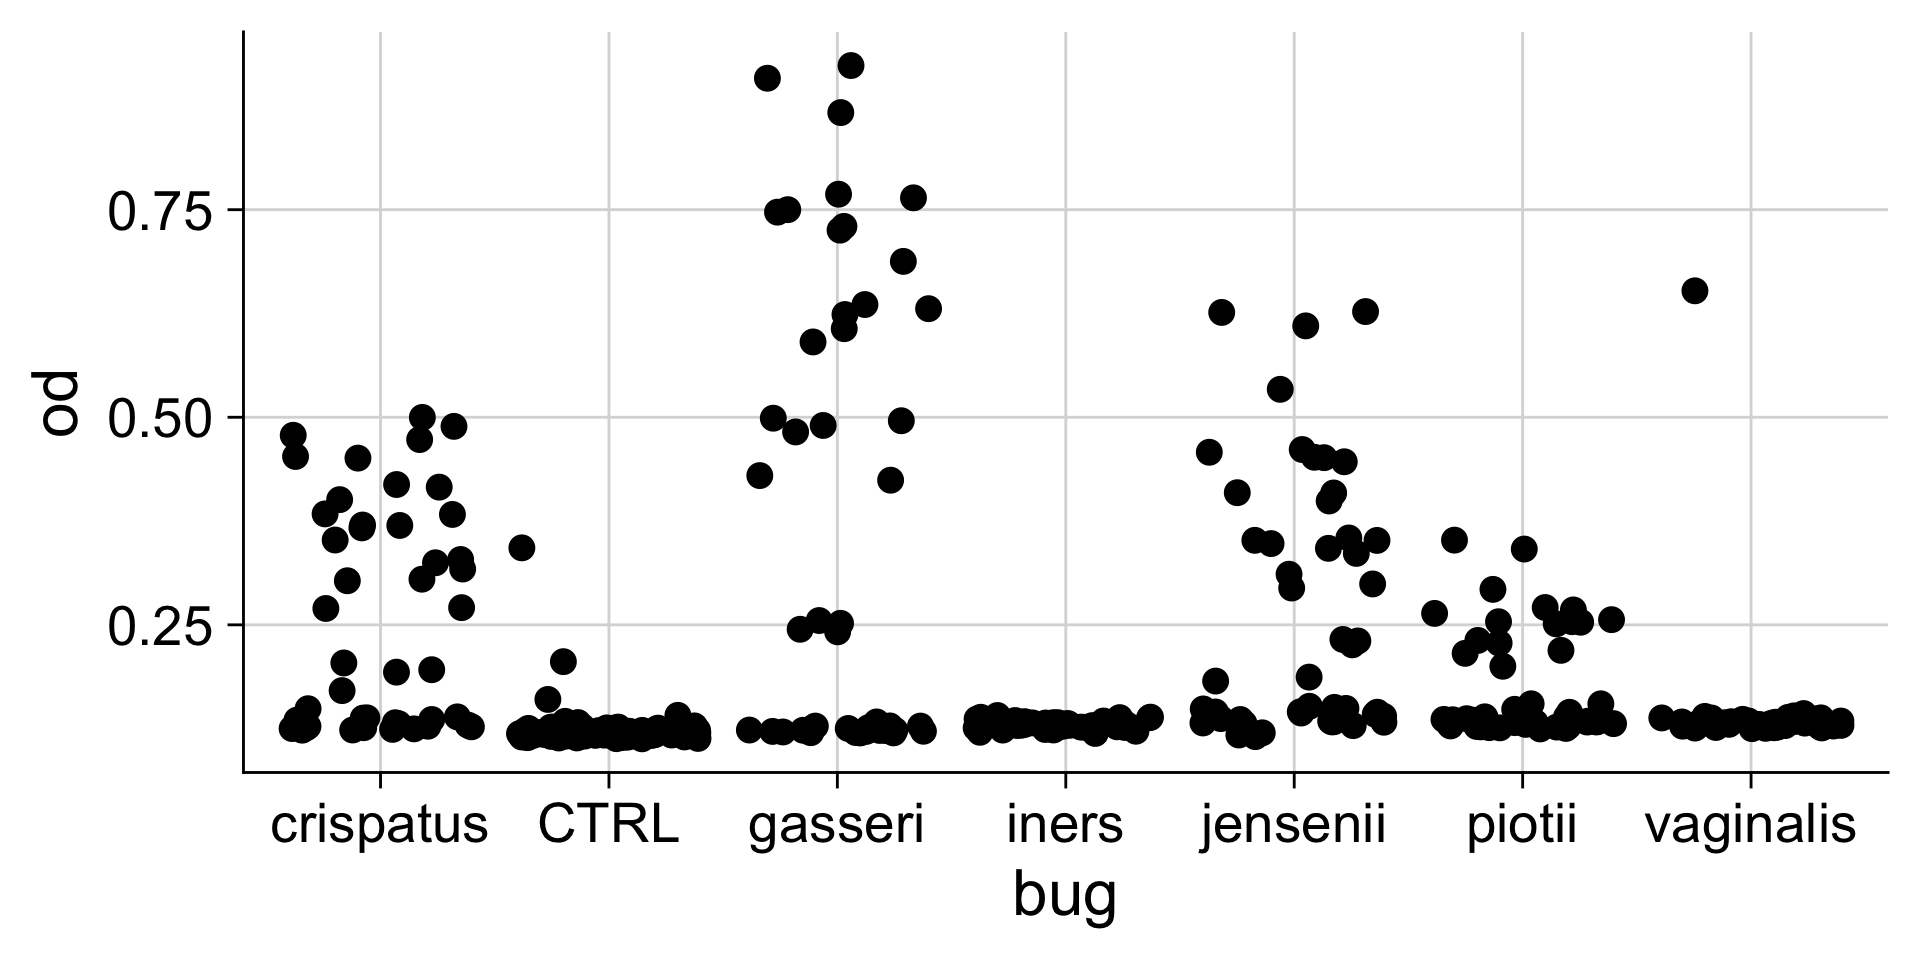
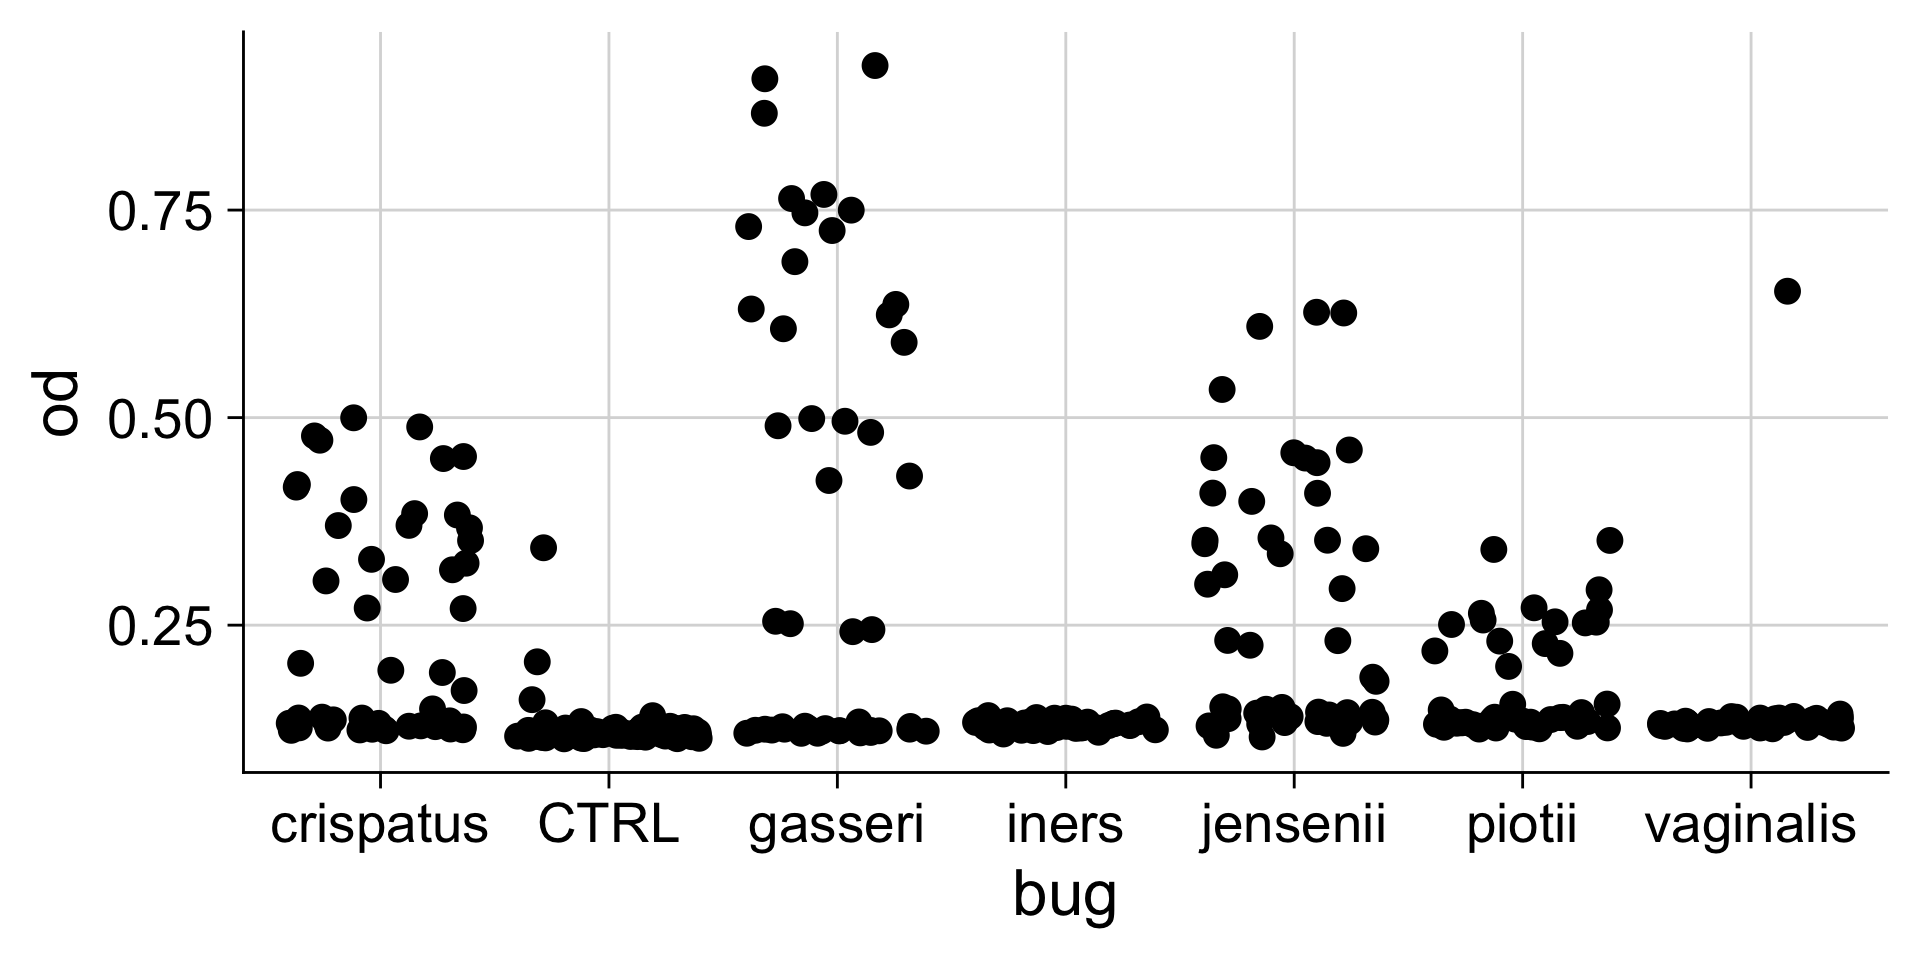
Built site for gh-pages

diff --git a/materials/archive/r-tutorial/slides.html b/materials/archive/r-tutorial/slides.html
@@ -656,7 +656,7 @@
 </ul>
 <div class="cell">
 <div class="cell-output-display">
-<div class="countdown" id="timer_e3cbdf46" data-update-every="1" data-play-sound="true" tabindex="0" style="bottom:0;left:0;">
+<div class="countdown" id="timer_8fb4dae4" data-update-every="1" data-play-sound="true" tabindex="0" style="bottom:0;left:0;">
 <div class="countdown-controls"><button class="countdown-bump-down">−</button><button class="countdown-bump-up">+</button></div>
 <code class="countdown-time"><span class="countdown-digits minutes">05</span><span class="countdown-digits colon">:</span><span class="countdown-digits seconds">00</span></code>
 </div>
@@ -1163,11 +1163,11 @@
 <pre><code># A tibble: 5 × 6
   plate_id row   column bug       condition  conc
      &lt;dbl&gt; &lt;chr&gt;  &lt;dbl&gt; &lt;chr&gt;     &lt;chr&gt;     &lt;dbl&gt;
-1        4 d          4 gasseri   LNA         400
-2        2 h          2 crispatus CTRL          0
-3        4 f          8 piotii    LNA         100
-4        2 f          2 crispatus LNA         100
-5        1 b          1 CTRL      OA          400</code></pre>
+1        2 g         12 CTRL      LNA          50
+2        1 b          5 jensenii  OA          400
+3        4 c          5 vaginalis VCA          50
+4        1 g         10 iners     VCA         200
+5        4 c         11 CTRL      VCA          50</code></pre>
 </div>
 </div>
 </section>
@@ -1183,11 +1183,11 @@
 <pre><code># A tibble: 5 × 6
   plate_id row   column bug       condition  conc
      &lt;dbl&gt; &lt;chr&gt;  &lt;dbl&gt; &lt;chr&gt;     &lt;chr&gt;     &lt;dbl&gt;
-1        2 b         12 CTRL      VCA         100
-2        4 e          5 vaginalis LNA         200
-3        1 e          3 crispatus OA           50
-4        1 d         11 CTRL      OA          100
-5        1 f          3 crispatus VCA         400</code></pre>
+1        4 d          5 vaginalis LNA         400
+2        3 d         11 CTRL      OA          100
+3        2 c          2 crispatus VCA          50
+4        3 e          1 CTRL      OA           50
+5        4 a          5 vaginalis CTRL          0</code></pre>
 </div>
 </div>
 </section>
@@ -1204,11 +1204,11 @@
 <pre><code># A tibble: 5 × 7
   plate_id row   column bug       condition  conc conc_mM
      &lt;dbl&gt; &lt;chr&gt;  &lt;dbl&gt; &lt;chr&gt;     &lt;chr&gt;     &lt;dbl&gt;   &lt;dbl&gt;
-1        4 g          5 vaginalis LNA          50    0.05
-2        2 e         12 CTRL      LNA         200    0.2 
-3        3 h         12 CTRL      CTRL          0    0   
-4        3 g          8 piotii    VCA         200    0.2 
-5        4 d         10 piotii    LNA         400    0.4 </code></pre>
+1        4 c          1 CTRL      VCA          50    0.05
+2        3 c         11 CTRL      OA          200    0.2 
+3        1 b          4 crispatus OA          400    0.4 
+4        2 d          7 jensenii  LNA         400    0.4 
+5        3 f         10 piotii    VCA         400    0.4 </code></pre>
 </div>
 </div>
 </section>
@@ -1223,11 +1223,11 @@
 <pre><code># A tibble: 5 × 8
   plate_id row   column bug       condition  conc conc_mM conc_nM
      &lt;dbl&gt; &lt;chr&gt;  &lt;dbl&gt; &lt;chr&gt;     &lt;chr&gt;     &lt;dbl&gt;   &lt;dbl&gt;   &lt;dbl&gt;
-1        2 f          8 iners     LNA         100    0.1   100000
-2        4 b         11 CTRL      VCA         100    0.1   100000
-3        1 f          1 CTRL      VCA         400    0.4   400000
-4        4 c          4 gasseri   VCA          50    0.05   50000
-5        2 e          4 crispatus LNA         200    0.2   200000</code></pre>
+1        1 a          3 crispatus CTRL          0     0         0
+2        1 g          6 jensenii  VCA         200     0.2  200000
+3        4 a          7 vaginalis CTRL          0     0         0
+4        2 e          8 iners     LNA         200     0.2  200000
+5        4 a          1 CTRL      CTRL          0     0         0</code></pre>
 </div>
 </div>
 </section>
@@ -1235,7 +1235,7 @@
 <h2>Your turn to do some data wrangling</h2>
 <div class="cell">
 <div class="cell-output-display">
-<div class="countdown" id="timer_cc14f17a" data-update-every="1" tabindex="0" style="bottom:0;left:0;">
+<div class="countdown" id="timer_e2ef744a" data-update-every="1" tabindex="0" style="bottom:0;left:0;">
 <div class="countdown-controls"><button class="countdown-bump-down">−</button><button class="countdown-bump-up">+</button></div>
 <code class="countdown-time"><span class="countdown-digits minutes">15</span><span class="countdown-digits colon">:</span><span class="countdown-digits seconds">00</span></code>
 </div>
@@ -1254,7 +1254,7 @@
 <h2>Break</h2>
 <div class="cell">
 <div class="cell-output-display">
-<div class="countdown" id="timer_97f24f30" data-update-every="1" tabindex="0" style="bottom:0;left:0;font-size:12rem;">
+<div class="countdown" id="timer_2b22bc86" data-update-every="1" tabindex="0" style="bottom:0;left:0;font-size:12rem;">
 <div class="countdown-controls"><button class="countdown-bump-down">−</button><button class="countdown-bump-up">+</button></div>
 <code class="countdown-time"><span class="countdown-digits minutes">15</span><span class="countdown-digits colon">:</span><span class="countdown-digits seconds">00</span></code>
 </div>
@@ -1938,7 +1938,7 @@
 <h2>Group Pen and Paper exercise</h2>
 <div class="cell">
 <div class="cell-output-display">
-<div class="countdown" id="timer_dbedca60" data-update-every="1" tabindex="0" style="bottom:0;left:0;">
+<div class="countdown" id="timer_2303a6da" data-update-every="1" tabindex="0" style="bottom:0;left:0;">
 <div class="countdown-controls"><button class="countdown-bump-down">−</button><button class="countdown-bump-up">+</button></div>
 <code class="countdown-time"><span class="countdown-digits minutes">10</span><span class="countdown-digits colon">:</span><span class="countdown-digits seconds">00</span></code>
 </div>

diff --git a/materials/r-tutorial/slides.html b/materials/r-tutorial/slides.html
@@ -543,7 +543,7 @@
 <span id="cb6-11"><a></a><span class="fu">c</span>(<span class="st">"Mon"</span>, <span class="st">"Tue"</span>, <span class="st">"Wed"</span>, <span class="st">"Thu"</span>, <span class="st">"Fri"</span>, <span class="st">"Sat"</span>, <span class="st">"Sun"</span>) <span class="sc">%&gt;%</span> <span class="fu">as_factor</span>()</span></code><button title="Copy to Clipboard" class="code-copy-button"><i class="bi"></i></button></pre></div>
 <div class="cell">
 <div class="cell-output-display">
-<div class="countdown" id="timer_377f6d70" data-update-every="1" data-play-sound="true" tabindex="0" style="bottom:0;left:0;">
+<div class="countdown" id="timer_6d25fe1f" data-update-every="1" data-play-sound="true" tabindex="0" style="bottom:0;left:0;">
 <div class="countdown-controls"><button class="countdown-bump-down">−</button><button class="countdown-bump-up">+</button></div>
 <code class="countdown-time"><span class="countdown-digits minutes">05</span><span class="countdown-digits colon">:</span><span class="countdown-digits seconds">00</span></code>
 </div>
@@ -1116,7 +1116,7 @@
 <p>That’s enough slides for now time to try for yourself! Go to <a href="index.html">the module</a> and go to Exercise 1.</p>
 <div class="cell">
 <div class="cell-output-display">
-<div class="countdown" id="timer_42028ea4" data-update-every="1" tabindex="0" style="right:0;bottom:0;">
+<div class="countdown" id="timer_3caad561" data-update-every="1" tabindex="0" style="right:0;bottom:0;">
 <div class="countdown-controls"><button class="countdown-bump-down">−</button><button class="countdown-bump-up">+</button></div>
 <code class="countdown-time"><span class="countdown-digits minutes">20</span><span class="countdown-digits colon">:</span><span class="countdown-digits seconds">00</span></code>
 </div>
@@ -1132,7 +1132,7 @@
 <h2>Exercise 2</h2>
 <div class="cell">
 <div class="cell-output-display">
-<div class="countdown" id="timer_47d56a77" data-update-every="1" tabindex="0" style="right:0;bottom:0;">
+<div class="countdown" id="timer_f61600be" data-update-every="1" tabindex="0" style="right:0;bottom:0;">
 <div class="countdown-controls"><button class="countdown-bump-down">−</button><button class="countdown-bump-up">+</button></div>
 <code class="countdown-time"><span class="countdown-digits minutes">30</span><span class="countdown-digits colon">:</span><span class="countdown-digits seconds">00</span></code>
 </div>
@@ -1469,7 +1469,7 @@ Table&nbsp;1: <code>02_visit_clinical_measurements_UKZN_workshop_2023.csv</code>
 <h2>Exercise</h2>
 <div class="cell">
 <div class="cell-output-display">
-<div class="countdown" id="timer_5c8973ec" data-update-every="1" tabindex="0" style="right:0;bottom:0;">
+<div class="countdown" id="timer_330a38b0" data-update-every="1" tabindex="0" style="right:0;bottom:0;">
 <div class="countdown-controls"><button class="countdown-bump-down">−</button><button class="countdown-bump-up">+</button></div>
 <code class="countdown-time"><span class="countdown-digits minutes">30</span><span class="countdown-digits colon">:</span><span class="countdown-digits seconds">00</span></code>
 </div>

diff --git a/materials/multiomics-primer/slides.html b/materials/multiomics-primer/slides.html
@@ -347,7 +347,7 @@
 </p>
 <div class="r-fit-text">
 <p>Workshop materials are here:</p>
-<p><a href="https://kwondry.github.io/documentation/">https://kwondry.github.io/documentation/</a></p>
+<p><a href="https://kwondry.github.io/documentation/multiomics-primer">https://kwondry.github.io/documentation/</a></p>
 </div>
 </section>
 <section id="section-1" class="slide level2" data-menu-item="Workshop Goals">
@@ -586,7 +586,7 @@
 </ul>
 <div class="cell">
 <div class="cell-output-display">
-<div class="countdown" id="timer_5272fbf6" data-update-every="1" data-play-sound="true" tabindex="0" style="bottom:0;left:0;">
+<div class="countdown" id="timer_0b7a5e8e" data-update-every="1" data-play-sound="true" tabindex="0" style="bottom:0;left:0;">
 <div class="countdown-controls"><button class="countdown-bump-down">−</button><button class="countdown-bump-up">+</button></div>
 <code class="countdown-time"><span class="countdown-digits minutes">20</span><span class="countdown-digits colon">:</span><span class="countdown-digits seconds">00</span></code>
 </div>
@@ -603,7 +603,7 @@
 <p>One brave soul explain your partner’s project and why they want to integrate multiple ’omics datasets</p>
 <div class="cell">
 <div class="cell-output-display">
-<div class="countdown" id="timer_6f367d90" data-update-every="1" data-play-sound="true" tabindex="0" style="bottom:0;left:0;">
+<div class="countdown" id="timer_23c1b51b" data-update-every="1" data-play-sound="true" tabindex="0" style="bottom:0;left:0;">
 <div class="countdown-controls"><button class="countdown-bump-down">−</button><button class="countdown-bump-up">+</button></div>
 <code class="countdown-time"><span class="countdown-digits minutes">05</span><span class="countdown-digits colon">:</span><span class="countdown-digits seconds">00</span></code>
 </div>
